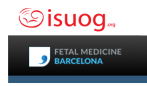
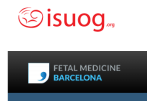
.

diff --git a/index.html b/index.html
@@ -1284,7 +1284,7 @@
                                 <img id="imagen.dos" src="img/dos.png" class="img-fluid my-4 d-none" alt="Logo Crecimientofetal">
                                 <img id="imagen.tres" src="img/tres.png" class="img-fluid my-4 d-none" alt="Logo Crecimientofetal">
                                 <img id="imagen.cuatro" src="img/smartphone.jpg" class="img-fluid my-4 d-none" alt="Logo Crecimientofetal">
-                                <img id="imagen.cinco" src="img/cinco.png" class="img-fluid my-5 pt-5 d-none" alt="Logo Crecimientofetal">
+                                <img id="imagen.cinco" src="img/cinco.png" class="img-fluid mt-5 pt-5 d-none" alt="Logo Crecimientofetal">
                             </div>
                         </div>
                     </div>
